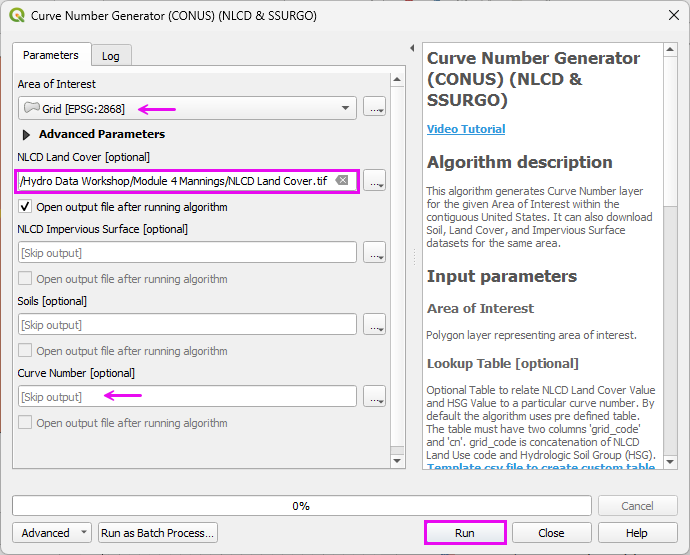
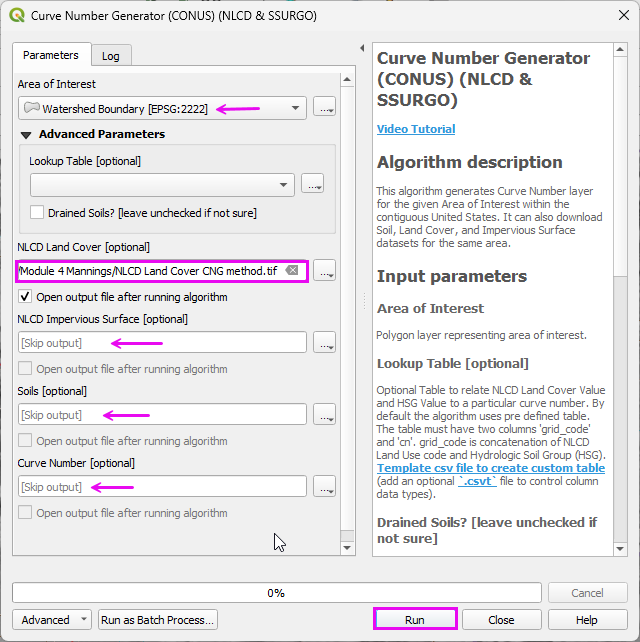
Add group elevation layers to mod 3

diff --git a/source/tutorials/hydrowkshp/module3.rst b/source/tutorials/hydrowkshp/module3.rst
@@ -103,6 +103,13 @@ Step 2: Download elevation
    - The raster extent fully covers the intended modeling domain.
    - This approach avoids redownloading large datasets while preserving continuity in the final elevation surface.
 
+Step 3: Group elevation layers
+---------------------------------------------------
+
+- Move the elevation layers to the elevation group.
+
+|hydrow025l|
+
 .. |hydrow020| image:: ../img/hydrowkshp/hydrow020.png
 
 .. |hydrow021| image:: ../img/hydrowkshp/hydrow021.jpg
@@ -126,3 +133,5 @@ Step 2: Download elevation
 .. |hydrow025j| image:: ../img/hydrowkshp/hydrow025j.png
 
 .. |hydrow025k| image:: ../img/hydrowkshp/hydrow025k.png
+
+.. |hydrow025l| image:: ../img/hydrowkshp/hydrow025l.png

diff --git a/source/tutorials/hydrowkshp/module4.rst b/source/tutorials/hydrowkshp/module4.rst
@@ -6,13 +6,13 @@ Module 4 - Process Manning’s Roughness Data
 Step 1: Load land cover data (NLCD)
 ---------------------------------------------------
 
-Curve Number Generator Method.
+**Curve Number Generator Method**
 
-- Load the Curve Number Generator from the Processing toolbox.
+- Load the **Curve Number Generator** from the **Processing** toolbox.
 
 |hydrow029|
 
-- Set the Extent to Grid.
+- Set the Extent to **Watershed** Layer.
 - Set the name and path.
 - Uncheck the other items.
 - Click Run
